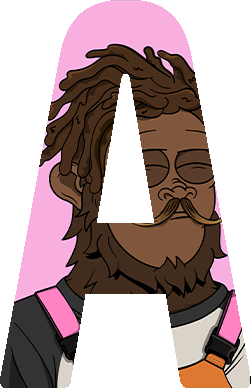
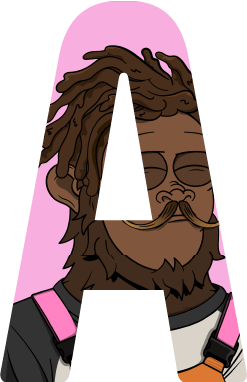
mobile hero

diff --git a/components/Hero.jsx b/components/Hero.jsx
@@ -22,7 +22,7 @@ const Hero = () => {
           <Image
             src={mobileHero}
             alt='Mobile Hero'
-            height={750}
+            height={650}
             width={390}
           >
           </Image>
